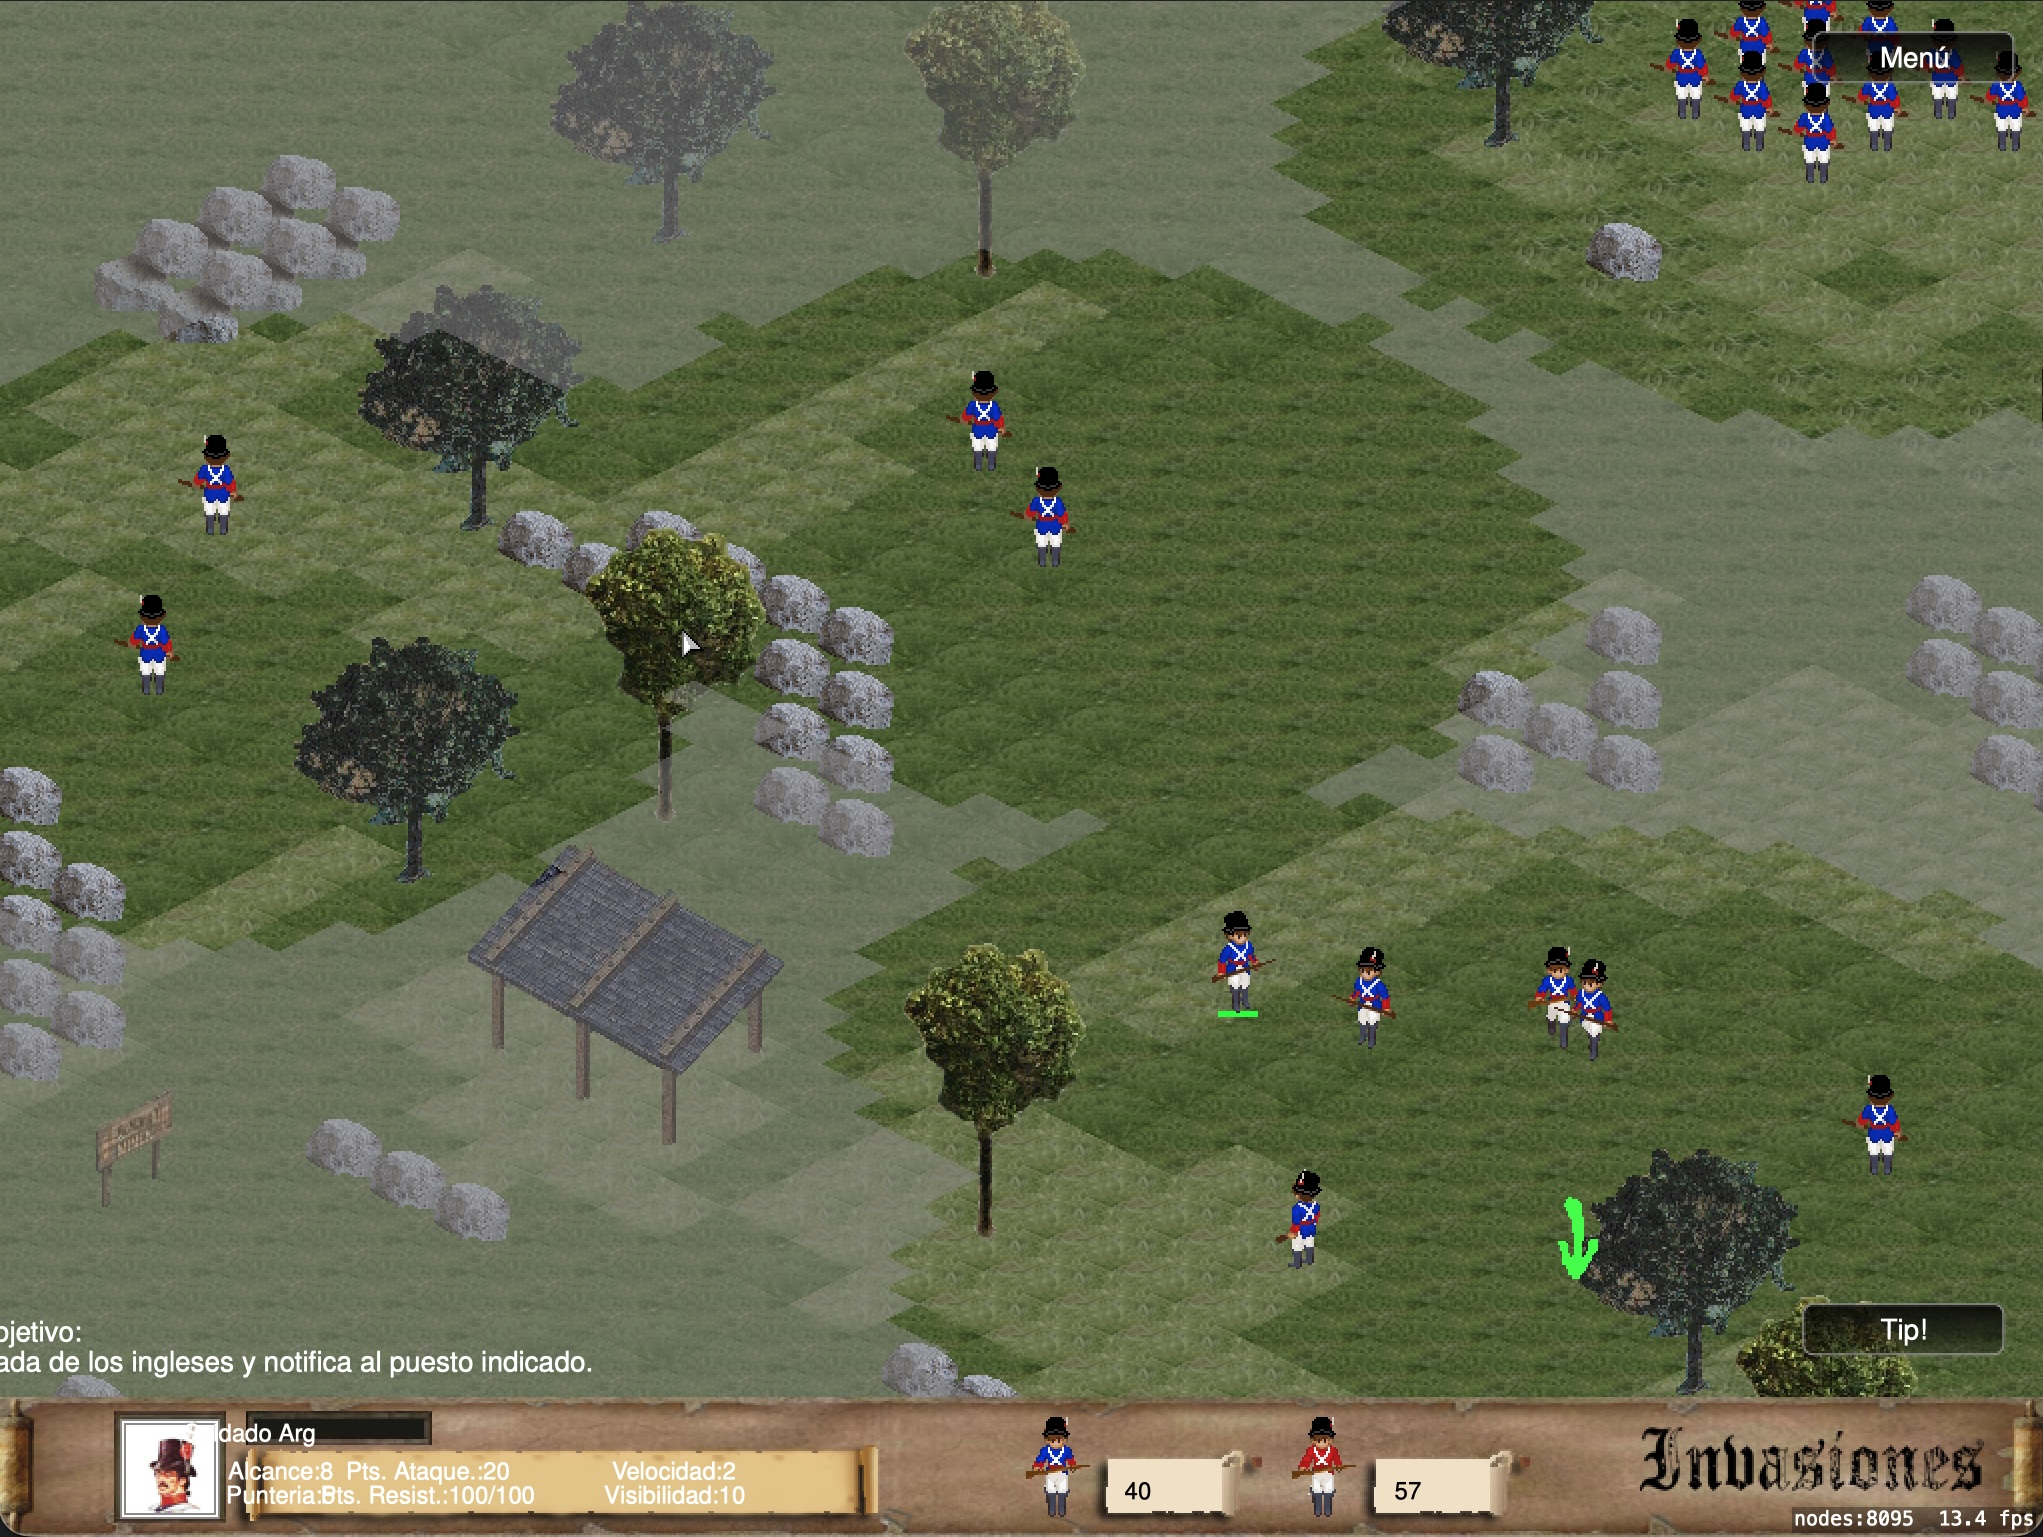
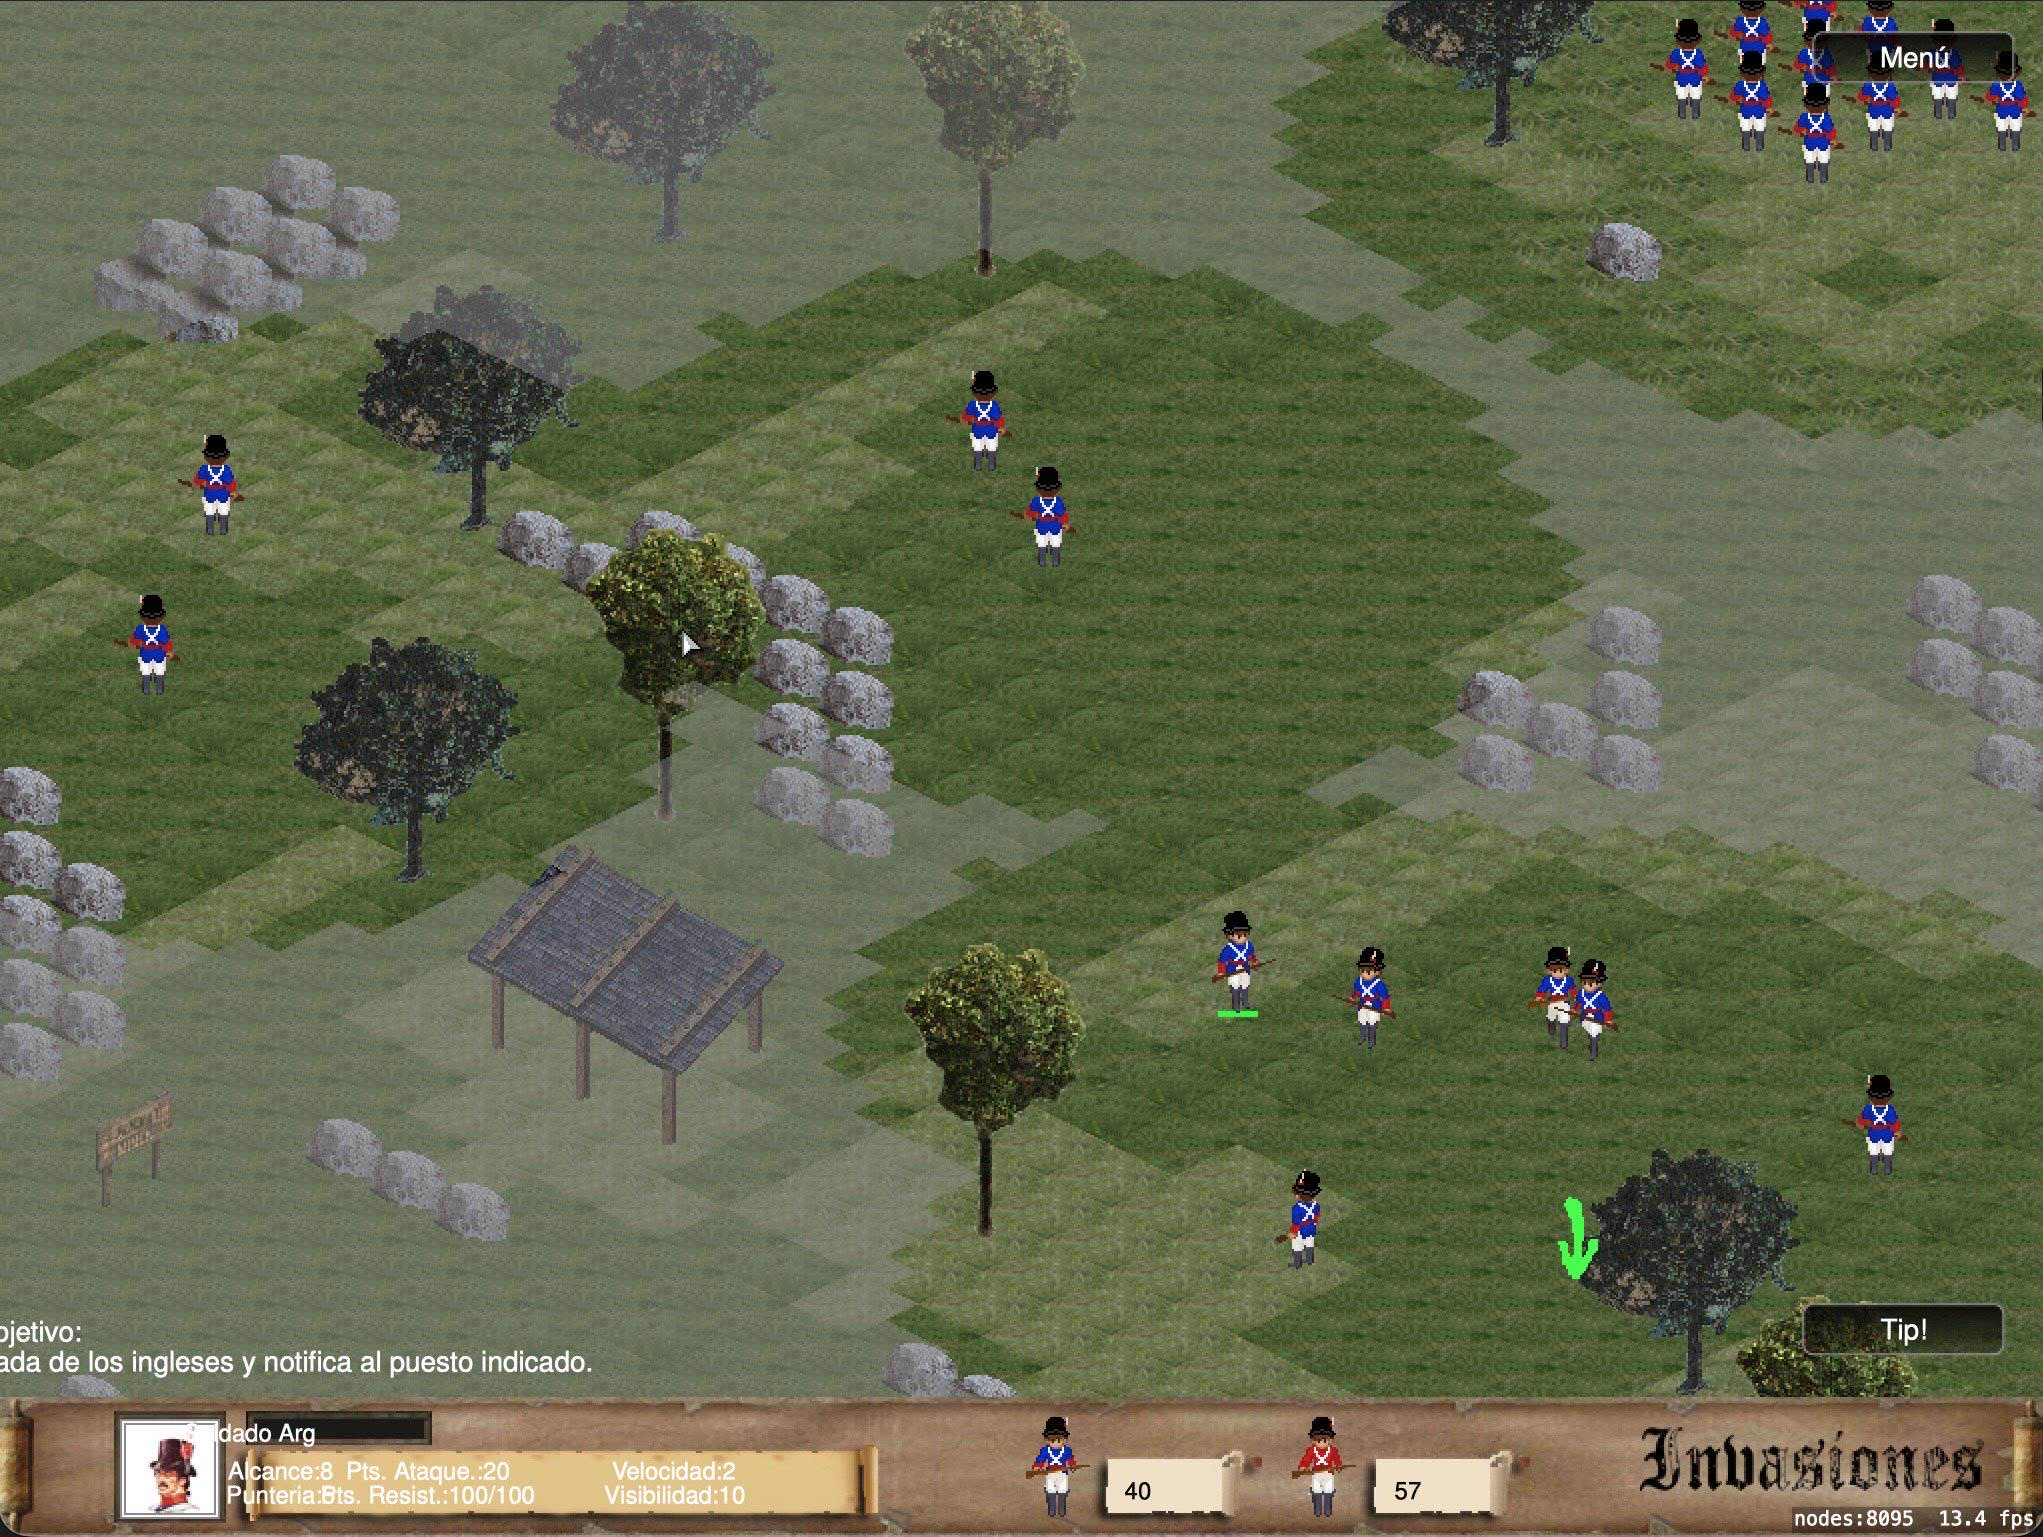
Compress images

diff --git a/README.md b/README.md
@@ -14,7 +14,7 @@ The original project was hosted in an SVN repository on Assembla, so the develop
 | Gameplay   |
 |![Gameplay](screenshots/Gameplay.jpg) |
 | Battle Intro |
-| ![Battle Intro](screenshots/Objectives0.png) | 
+| ![Battle Intro](screenshots/Objectives0.jpg) | 
 | Objectives |
 | ![Objectives](screenshots/Objectives.jpg) |
 
